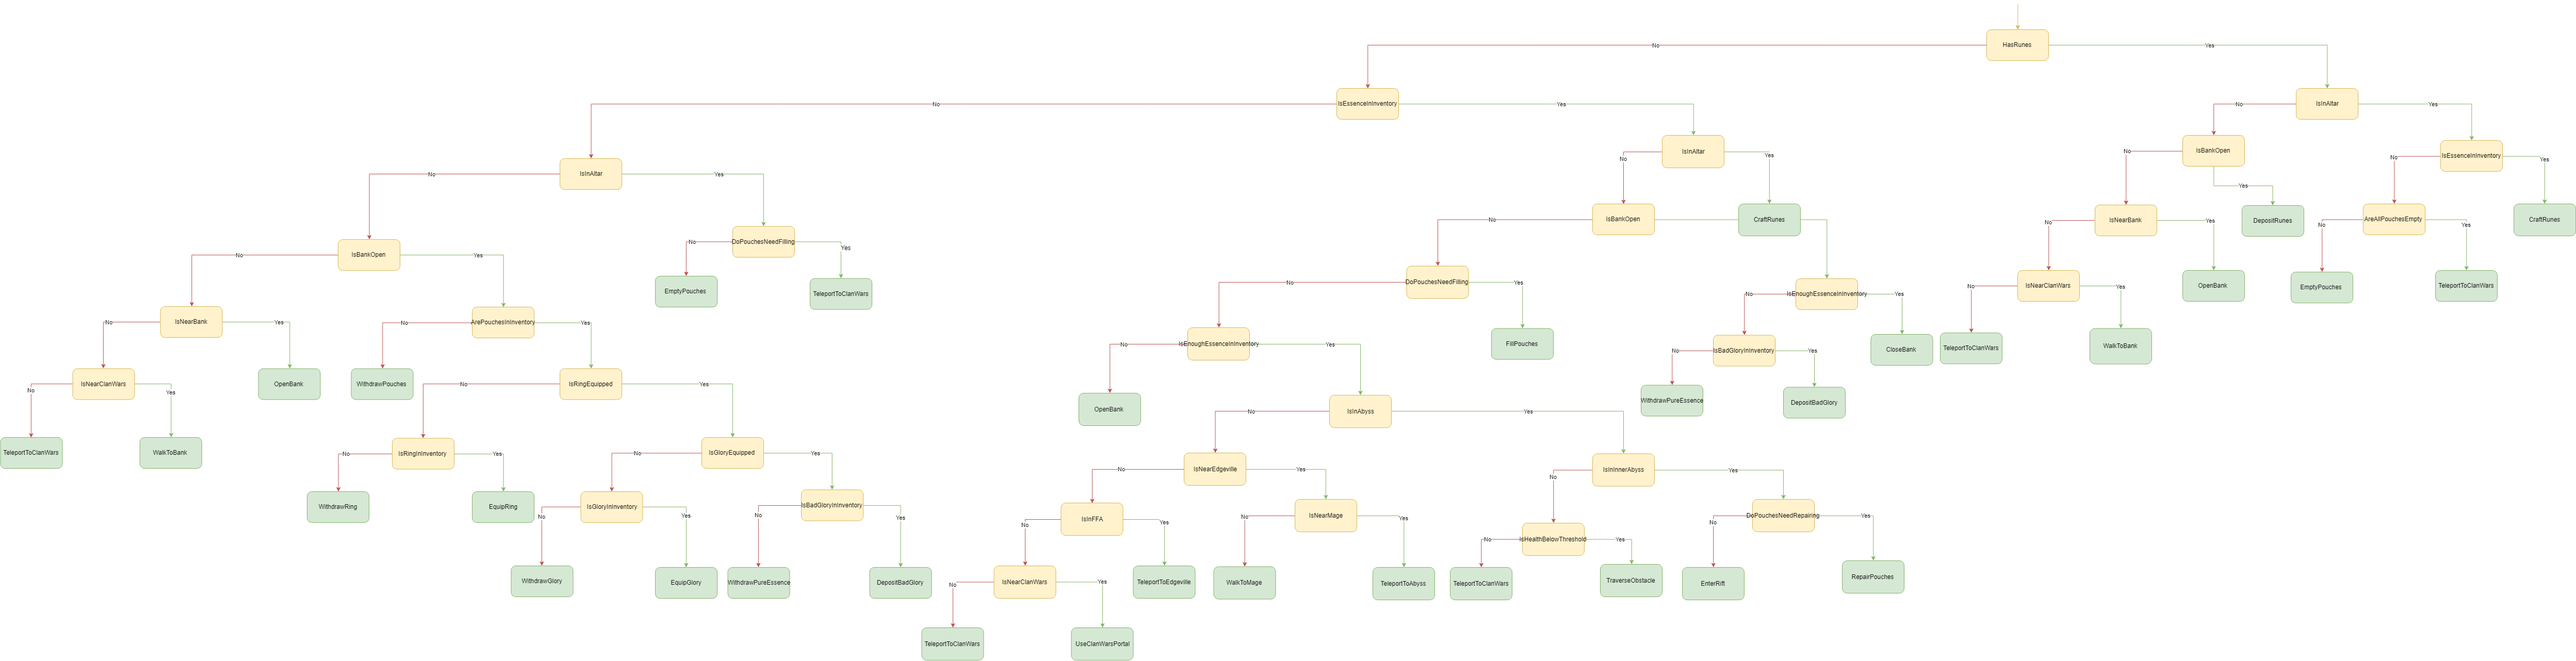
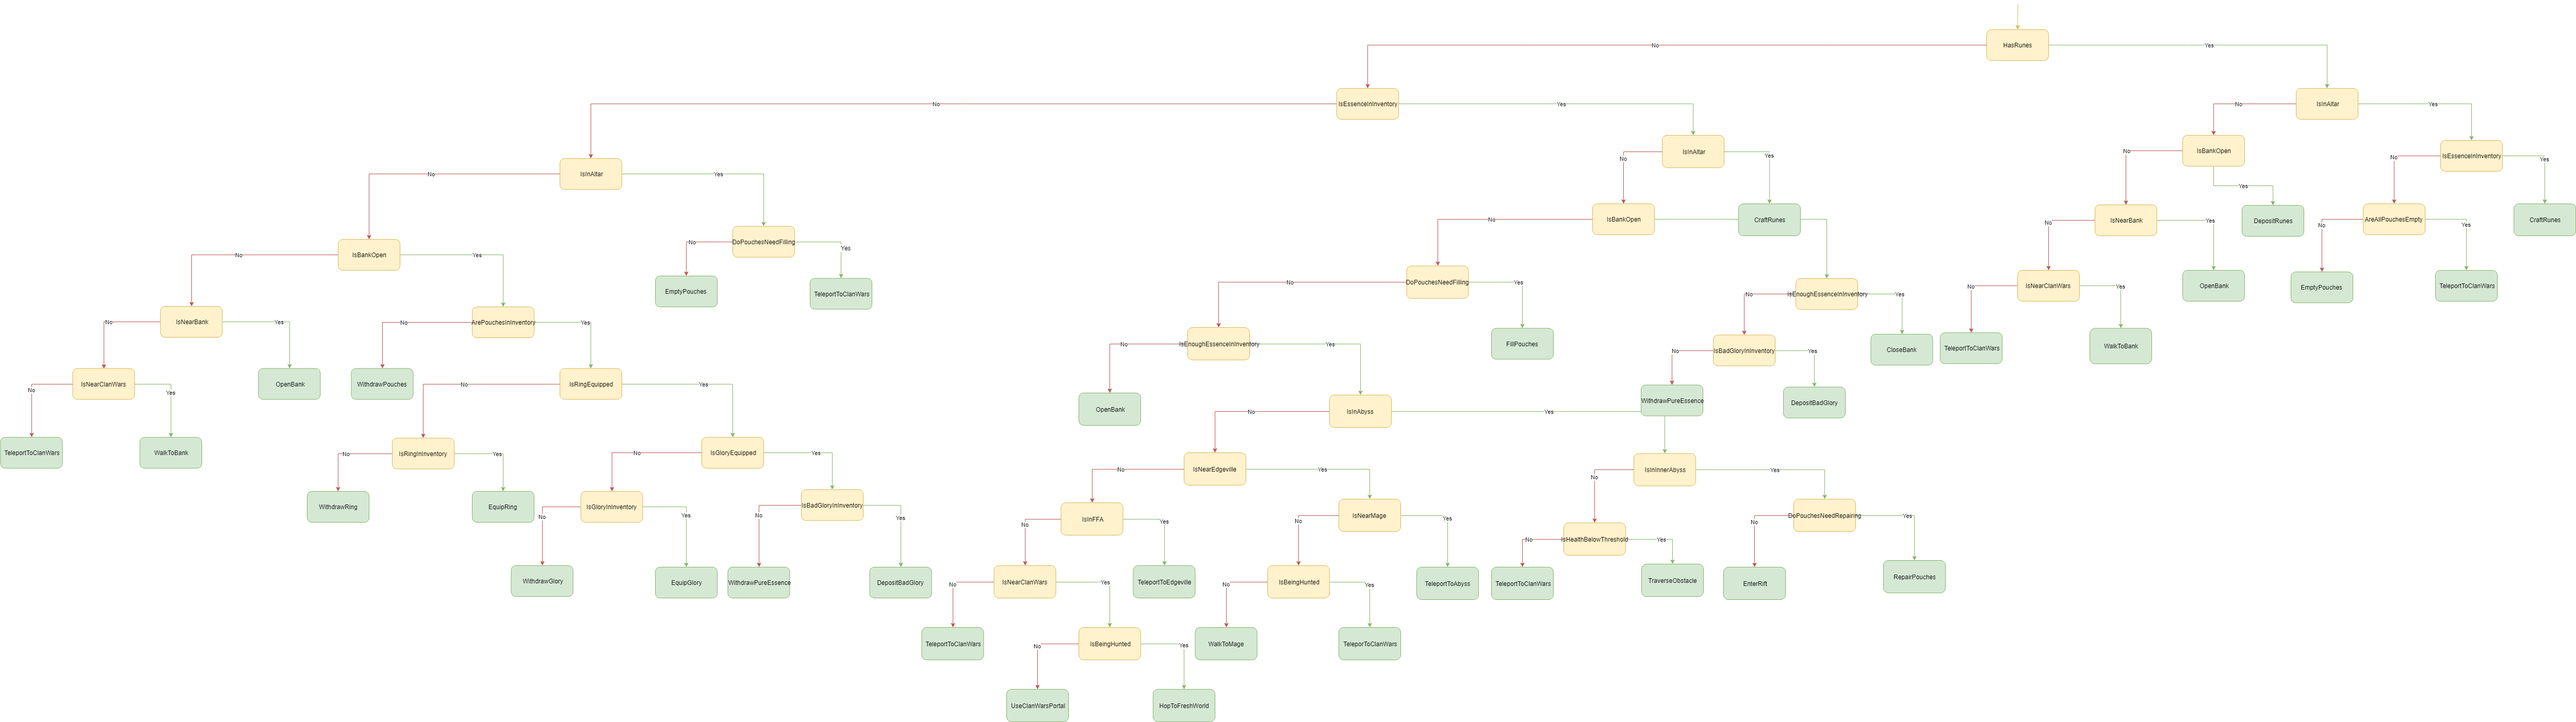
Added anti-pk Abyss method

diff --git a/src/tasks/WalkToMage.java b/src/tasks/WalkToMage.java
@@ -1,33 +1,38 @@
 package tasks;
 
-import org.rspeer.runetek.api.component.InterfaceAddress;
-import org.rspeer.runetek.api.component.Interfaces;
+import org.rspeer.runetek.adapter.scene.Player;
+import org.rspeer.runetek.api.Definitions;
 import org.rspeer.runetek.api.scene.Players;
+import org.rspeer.ui.Log;
 import task_structure.TreeScript;
 
+import java.util.Arrays;
+
 public class WalkToMage extends WalkToSpecified {
-    private final int combatLevel;
-    private final InterfaceAddress wildernessLevelAddress;
+    private final static int WILDERNESS_ENTRANCE_Y = 3524, MAXIMUM_WILDERNESS = 6;
+    private final TreeScript handler;
+    private final String characterName;
+    private final int characterLevel;
 
     public WalkToMage(final TreeScript handler) {
         super(handler.getNotedPosition("mage"));
-        combatLevel = Players.getLocal().getCombatLevel();
-        wildernessLevelAddress = new InterfaceAddress(() -> Interfaces.getFirst(component -> component.getText().contains("Level: ")));
+        this.handler = handler;
+        final Player player = Players.getLocal();
+        characterName = player.getName();
+        characterLevel = player.getCombatLevel();
     }
 
     @Override
     public int execute() {
-        // TODO: 2/12/2019 Fix Abyss pking threat
-//        final InterfaceComponent wildernessInterface = Interfaces.lookup(wildernessLevelAddress);
-//        if (wildernessInterface == null) return super.execute();
-//        final int wildernessLevel = Integer.parseInt(wildernessInterface.getText().replaceAll("\\D+", ""));
-//        final Player[] threats = Players.getLoaded(player -> Math.abs(combatLevel - player.getCombatLevel()) >= wildernessLevel);
-//        if (threats == null || threats.length == 0) return super.execute();
-//        final int currentWorld = Worlds.getCurrent();
-//        WorldHopper.randomHopInP2p();
-//        Time.sleepUntil(() -> Worlds.getCurrent() != currentWorld, 5000);
-//        return Random.high(500, 1000);
-        return super.execute();
+        final Player[] threats = Players.getLoaded(player -> {
+            for (final int equipmentId : player.getAppearance().getEquipmentIds())
+                if (Definitions.getItem(equipmentId).getName().matches(".*\\s(pickaxe|axe)")) return false;
+            return !player.getName().equals(characterName) && player.getPosition().getY() > WILDERNESS_ENTRANCE_Y && Math.abs(characterLevel - player.getCombatLevel()) <= MAXIMUM_WILDERNESS;
+        });
+        if (threats == null || threats.length == 0) return super.execute();
+        Log.info("We're being hunted by " + Arrays.stream(threats).findAny().get().getName());
+        handler.setNotedFlag("hunted", true);
+        return 100;
     }
 
     @Override

diff --git a/src/tasks/HopToFreshWorld.java b/src/tasks/HopToFreshWorld.java
@@ -1,0 +1,38 @@
+package tasks;
+
+import org.rspeer.runetek.api.Worlds;
+import org.rspeer.runetek.api.commons.Time;
+import org.rspeer.runetek.api.component.WorldHopper;
+import org.rspeer.ui.Log;
+import task_structure.TreeScript;
+import task_structure.TreeTask;
+
+public class HopToFreshWorld extends TreeTask {
+    private final TreeScript handler;
+
+    public HopToFreshWorld(final TreeScript handler) {
+        super(true);
+        this.handler = handler;
+    }
+
+    @Override
+    public boolean validate() {
+        return false;
+    }
+
+    @Override
+    public int execute() {
+        final int currentWorld = Worlds.getCurrent();
+        if (!WorldHopper.isOpen()) WorldHopper.open();
+        Time.sleepUntil(WorldHopper::isOpen, 1000);
+        WorldHopper.randomHopInP2p();
+        Time.sleepUntil(() -> Worlds.getCurrent() != currentWorld, 5000);
+        handler.setNotedFlag("hunted", false);
+        return super.execute();
+    }
+
+    @Override
+    public String toString() {
+        return "Hopping to another world to lose pker threat";
+    }
+}

diff --git a/src/methods/Abyss.java b/src/methods/Abyss.java
@@ -63,10 +63,14 @@ public class Abyss extends CraftMethod {
         TreeTask ninth = eighth.setLeft(new IsInFFA(handler));
         TreeTask tenth = ninth.setLeft(new IsNearClanWars(handler));
         tenth.setLeft(new TeleportToClanWars(handler));
-        tenth.setRight(new UseClanWarsPortal(handler));
+        TreeTask eleventh = tenth.setRight(new IsBeingHunted(handler));
+        eleventh.setLeft(new UseClanWarsPortal(handler));
+        eleventh.setRight(new HopToFreshWorld(handler));
         ninth.setRight(new TeleportToEdgeville(handler));
         ninth = eighth.setRight(new IsNearMage());
-        ninth.setLeft(new WalkToMage(handler));
+        tenth = ninth.setLeft(new IsBeingHunted(handler));
+        tenth.setLeft(new WalkToMage(handler));
+        tenth.setRight(new TeleportToClanWars(handler));
         ninth.setRight(new TeleportToAbyss(handler));
         eighth = seventh.setRight(new IsInInnerAbyss());
         ninth = eighth.setLeft(new IsHealthBelowThreshold());

diff --git a/src/tasks/TraverseObstacle.java b/src/tasks/TraverseObstacle.java
@@ -3,8 +3,8 @@ package tasks;
 import org.rspeer.runetek.adapter.scene.SceneObject;
 import org.rspeer.runetek.api.commons.Time;
 import org.rspeer.runetek.api.commons.math.Random;
+import org.rspeer.runetek.api.scene.Players;
 import org.rspeer.runetek.api.scene.SceneObjects;
-import org.rspeer.ui.Log;
 import task_structure.TreeScript;
 import task_structure.TreeTask;
 import utils.AbyssObstacles;
@@ -29,7 +29,7 @@ public class TraverseObstacle extends TreeTask {
         if (obstacle == null)
             return super.execute();
         obstacle.interact(AbyssObstacles.valueOf(obstacle.getName().toUpperCase()).getAction());
-        Time.sleepUntil(() -> !obstacle.isPositionInteractable(), Random.high(800, obstacle.distance() > CLICK_DISTANCE ? 2000 : 1000));
+        Time.sleepUntil(() -> !obstacle.isPositionInteractable() || (!Players.getLocal().isMoving() && obstacle.distance() > CLICK_DISTANCE), Random.high(800, 1200));
         return super.execute();
     }
 

diff --git a/src/tasks/RepairPouches.java b/src/tasks/RepairPouches.java
@@ -2,8 +2,10 @@ package tasks;
 
 import org.rspeer.runetek.adapter.scene.Npc;
 import org.rspeer.runetek.api.commons.Time;
+import org.rspeer.runetek.api.commons.math.Random;
 import org.rspeer.runetek.api.component.Dialog;
 import org.rspeer.runetek.api.scene.Npcs;
+import org.rspeer.runetek.api.scene.Players;
 import task_structure.TreeTask;
 
 public class RepairPouches extends TreeTask {
@@ -19,9 +21,9 @@ public class RepairPouches extends TreeTask {
     @Override
     public int execute() {
         final Npc darkMage = Npcs.getNearest("Dark mage");
-        if (darkMage != null) {
+        if (darkMage != null && !Players.getLocal().isMoving()) {
             darkMage.interact("Repairs");
-            Time.sleepUntil(Dialog::isOpen, 3000);
+            Time.sleepUntil(Dialog::isOpen, Random.high(2000, 3000));
         }
         return super.execute();
     }

diff --git a/src/tasks/WithdrawPureEssence.java b/src/tasks/WithdrawPureEssence.java
@@ -1,5 +1,6 @@
 package tasks;
 
+import methods.CraftMethod;
 import org.rspeer.runetek.api.commons.Time;
 import org.rspeer.runetek.api.commons.math.Random;
 import org.rspeer.runetek.api.component.Bank;
@@ -27,8 +28,9 @@ public class WithdrawPureEssence extends TreeTask {
             withdrawAttempts++;
             return withdrawAttempts == MAXIMUM_WITHDRAWAL_ATTEMPTS ? -1 : super.execute();
         }
+        final int essenceCount = Inventory.getCount(CraftMethod.PURE_ESSENCE_ID);
         Bank.withdraw("Pure essence", Inventory.getFreeSlots());
-        Time.sleepUntil(() -> Inventory.contains("Pure essence"), 4000);
+        Time.sleepUntil(() -> Inventory.getCount(CraftMethod.PURE_ESSENCE_ID) > essenceCount, 2000);
         withdrawAttempts = 0;
         return super.execute();
     }

diff --git a/src/tasks/WithdrawPouches.java b/src/tasks/WithdrawPouches.java
@@ -30,6 +30,7 @@ public class WithdrawPouches extends TreeTask {
             final String pouchName = pouch.toString();
             return handler.getNotedSetting(pouchName) && !Inventory.contains(pouchName);
         }).collect(Collectors.toSet());
+        if (pouches.isEmpty()) return -1;
         for (final Pouches pouch : pouches) {
             final String pouchName = pouch.toString();
             Bank.withdraw(pouchName, 1);

diff --git a/src/tasks/IsBeingHunted.java b/src/tasks/IsBeingHunted.java
@@ -1,0 +1,18 @@
+package tasks;
+
+import task_structure.TreeScript;
+import task_structure.TreeTask;
+
+public class IsBeingHunted extends TreeTask {
+    private final TreeScript handler;
+
+    public IsBeingHunted(final TreeScript handler) {
+        super(false);
+        this.handler = handler;
+    }
+
+    @Override
+    public boolean validate() {
+        return handler.getNotedFlag("hunted");
+    }
+}

diff --git a/src/tasks/EmptyPouches.java b/src/tasks/EmptyPouches.java
@@ -37,7 +37,6 @@ public class EmptyPouches extends TreeTask {
             handler.setNotedFlag(pouchName, false);
             focused.interact("Empty");
             Time.sleepUntil(() -> Inventory.getFreeSlots() < freeSlots, 2000);
-            Time.sleep(100, 300);
         }
         return super.execute();
     }
